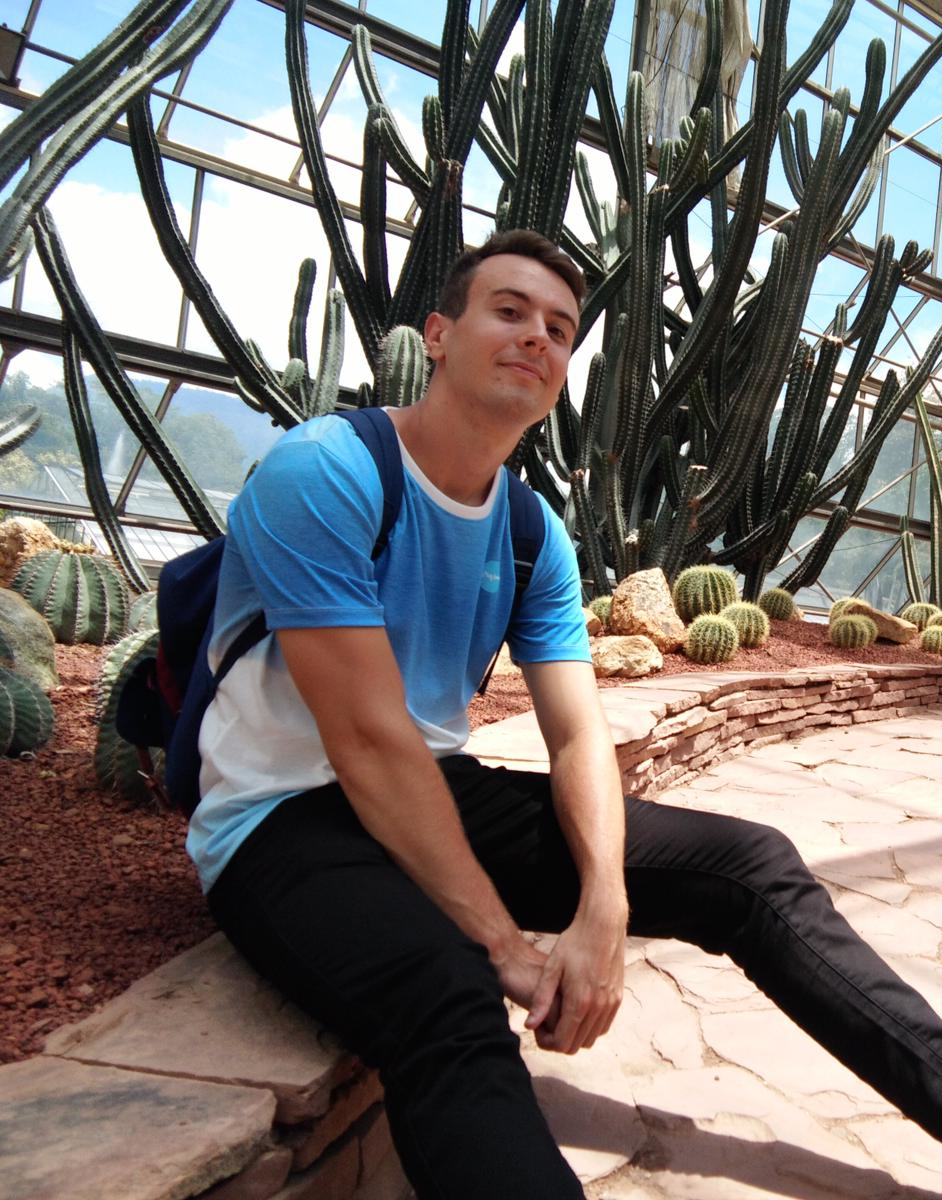
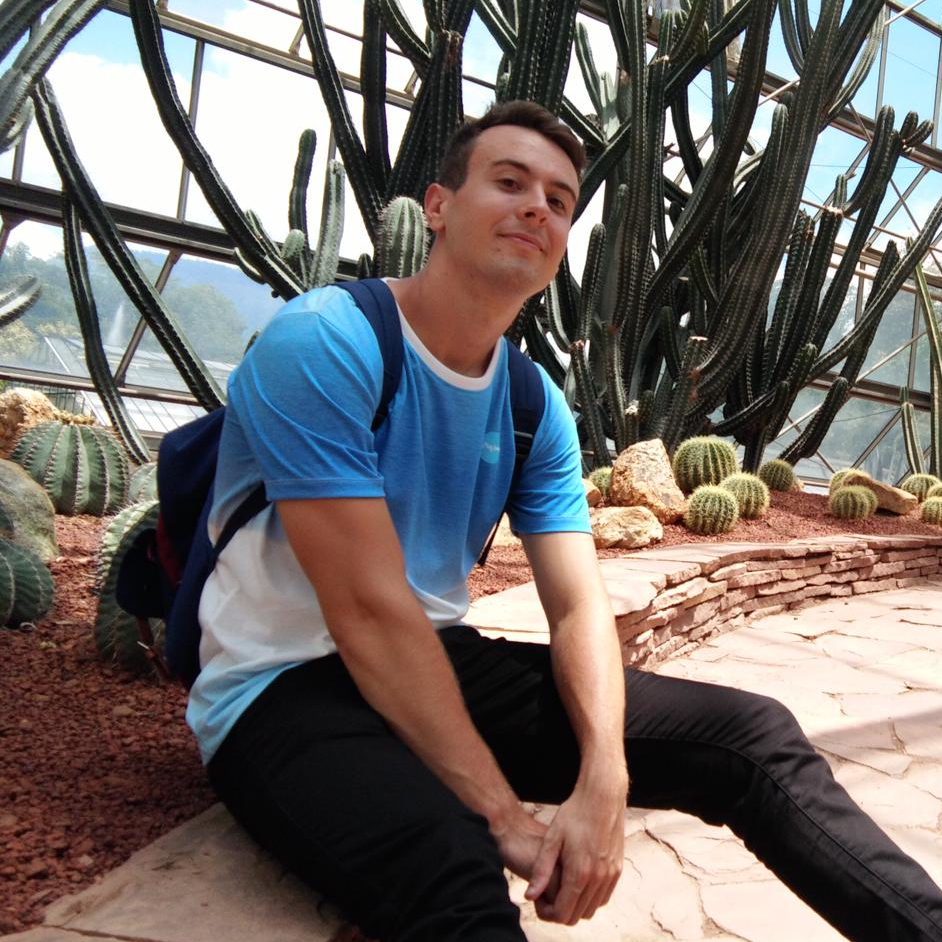
Mobile-responsive everything

diff --git a/src/pages/index.js b/src/pages/index.js
@@ -1,57 +1,53 @@
 import React from "react"
-import styled from "styled-components"
+import { useStaticQuery, graphql } from "gatsby"
+import Img from "gatsby-image"
 
 import Layout from "../components/layout"
-import Image from "../components/image"
+import Container from "../components/container"
+import Row from "../components/row"
 import SEO from "../components/seo"
 
-const Container = styled.section`
-  height: 100vh;
-`
+const IndexPage = () => {
+  const data = useStaticQuery(graphql`
+    query {
+      image: file(relativePath: { eq: "eric-murphy.jpg" }) {
+        childImageSharp {
+          fluid(maxWidth: 550, quality: 90) {
+            ...GatsbyImageSharpFluid
+          }
+        }
+      }
+    }
+  `)
 
-const Hero = styled.header`
-  display: grid;
-  height: 100%;
-  max-width: 1120px;
-  margin: 0 auto;
-  grid-template-columns: 1fr 1fr;
-  grid-gap: 4em;
-  align-items: center;
-
-  @media (max-width: 768px) {
-    grid-template-columns: 1fr;
-  }
-`
-
-const Column = styled.div``
-
-const IndexPage = () => (
-  <Layout>
-    <SEO title="Home" />
-    <Container>
-      <Hero>
-        <Column>
-          <Image />
-        </Column>
-        <Column>
-          <h1>Hey! I'm Eric Murphy.</h1>
-          <p>
-            I build blazing-fast, modern websites and webapps that are a joy to
-            use.
-          </p>
-          <p>
-            I also make videos teaching people how to become better, more
-            effective developers.
-          </p>
-          <p>
-            Ready to get your project started? Send me a message at{" "}
-            <a href="mailto:ericnmurphy@gmail.com">ericnmurphy@gmail.com</a> to
-            get things rolling.
-          </p>
-        </Column>
-      </Hero>
-    </Container>
-  </Layout>
-)
+  return (
+    <Layout>
+      <SEO title="Home" />
+      <Container>
+        <Row>
+          <div>
+            <Img fluid={data.image.childImageSharp.fluid} />
+          </div>
+          <div>
+            <h1>Hey! I'm Eric Murphy.</h1>
+            <p>
+              I build blazing-fast, modern websites and webapps that are a joy
+              to use.
+            </p>
+            <p>
+              I also make videos teaching people how to become better, more
+              effective developers.
+            </p>
+            <p>
+              Ready to get your project started? Send me a message at{" "}
+              <a href="mailto:ericnmurphy@gmail.com">ericnmurphy@gmail.com</a>{" "}
+              to get things rolling.
+            </p>
+          </div>
+        </Row>
+      </Container>
+    </Layout>
+  )
+}
 
 export default IndexPage

diff --git a/src/pages/videos.js b/src/pages/videos.js
@@ -1,30 +1,20 @@
 import React from "react"
 import { useStaticQuery, graphql } from "gatsby"
 import styled from "styled-components"
-import Img from "gatsby-image"
 
 import Layout from "../components/layout"
+import Container from "../components/container"
+import Row from "../components/row"
 import SEO from "../components/seo"
 
-const Container = styled.section`
-  height: 100vh;
-`
+const VideoWrapper = styled.iframe`
+  margin-bottom: 0;
+  border: 0;
 
-const Hero = styled.header`
-  display: grid;
-  height: 100%;
-  max-width: 1120px;
-  margin: 0 auto;
-  grid-template-columns: 1fr 1fr;
-  grid-gap: 4em;
-  align-items: center;
-
-  @media (max-width: 768px) {
-    grid-template-columns: 1fr;
+  &:first-child {
+    margin-bottom: 20px;
   }
 `
-
-const Column = styled.div``
 
 const VideosPage = () => {
   const data = useStaticQuery(graphql`
@@ -43,22 +33,22 @@ const VideosPage = () => {
     <Layout>
       <SEO title="Videos" />
       <Container>
-        <Hero>
-          <Column>
+        <Row>
+          <div>
             {data.allYoutubeVideo.edges.map(({ node }) => {
               return (
-                <iframe
+                <VideoWrapper
                   width="100%"
-                  height="290"
+                  height="285"
                   src={"https://www.youtube.com/embed/" + node.videoId}
                   frameborder="0"
                   allow="accelerometer; autoplay; encrypted-media; gyroscope; picture-in-picture"
                   allowfullscreen
-                ></iframe>
+                ></VideoWrapper>
               )
             })}
-          </Column>
-          <Column>
+          </div>
+          <div>
             <h3>Videos</h3>
             <p>
               I run a YouTube channel making videos teaching people how to
@@ -74,8 +64,8 @@ const VideosPage = () => {
               </a>
               .
             </p>
-          </Column>
-        </Hero>
+          </div>
+        </Row>
       </Container>
     </Layout>
   )

diff --git a/src/components/row.js b/src/components/row.js
@@ -1,0 +1,22 @@
+import styled from "styled-components"
+
+const Row = styled.div`
+  display: grid;
+  height: 100%;
+  max-width: 1140px;
+  height: auto;
+  min-height: auto;
+  margin: 0 auto;
+  padding: 20px;
+  grid-template-columns: 1fr;
+  grid-gap: 1em;
+  align-items: center;
+
+  @media (min-width: 768px) {
+    grid-template-columns: 1fr 1fr;
+    grid-gap: 4em;
+    min-height: 768px;
+    height: 100vh;
+  }
+`
+export default Row

diff --git a/src/components/header.js b/src/components/header.js
@@ -4,14 +4,20 @@ import { Link } from "gatsby"
 import styled from "styled-components"
 
 const HeaderWrapper = styled.div`
-  position: fixed;
+  position: relative;
   width: 100%;
   background-color: #f3f6f9;
+  z-index: 99;
+
+  @media (min-width: 768px) {
+    position: fixed;
+  }
 `
 
 const HeaderContent = styled.header`
   display: flex;
-  max-width: 1120px;
+  max-width: 1140px;
+  padding: 0 20px;
   margin: 0 auto;
 `
 

diff --git a/src/components/container.js b/src/components/container.js
@@ -1,0 +1,11 @@
+import styled from "styled-components"
+
+const Container = styled.section`
+  min-height: auto;
+
+  @media (min-width: 768px) {
+    min-height: 100vh;
+  }
+`
+
+export default Container
